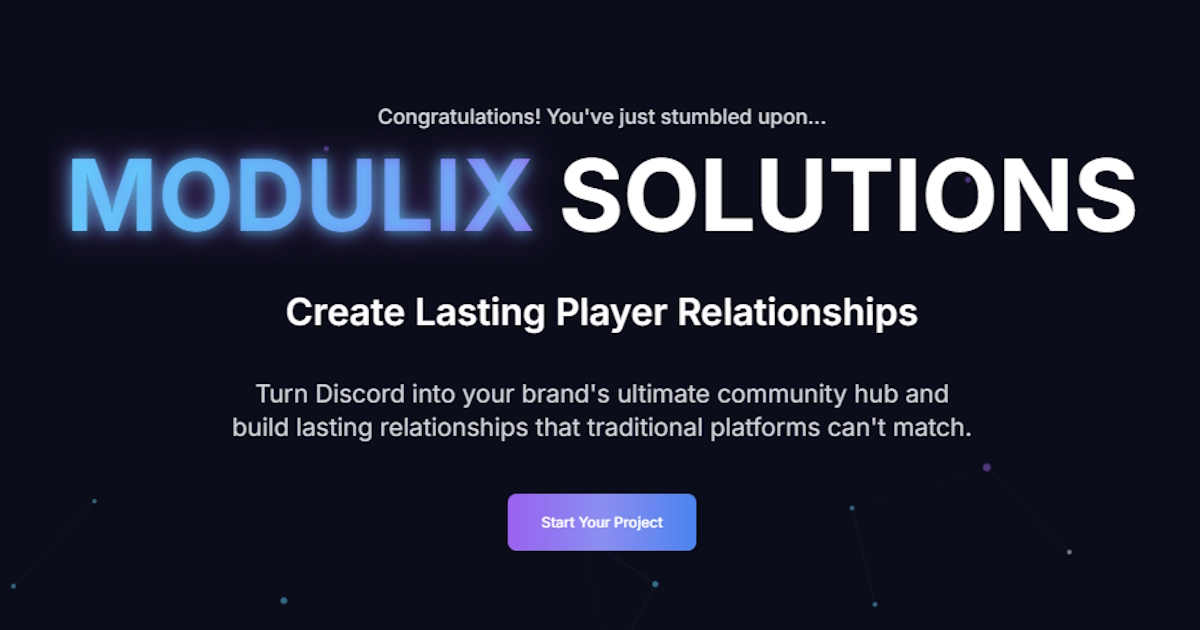
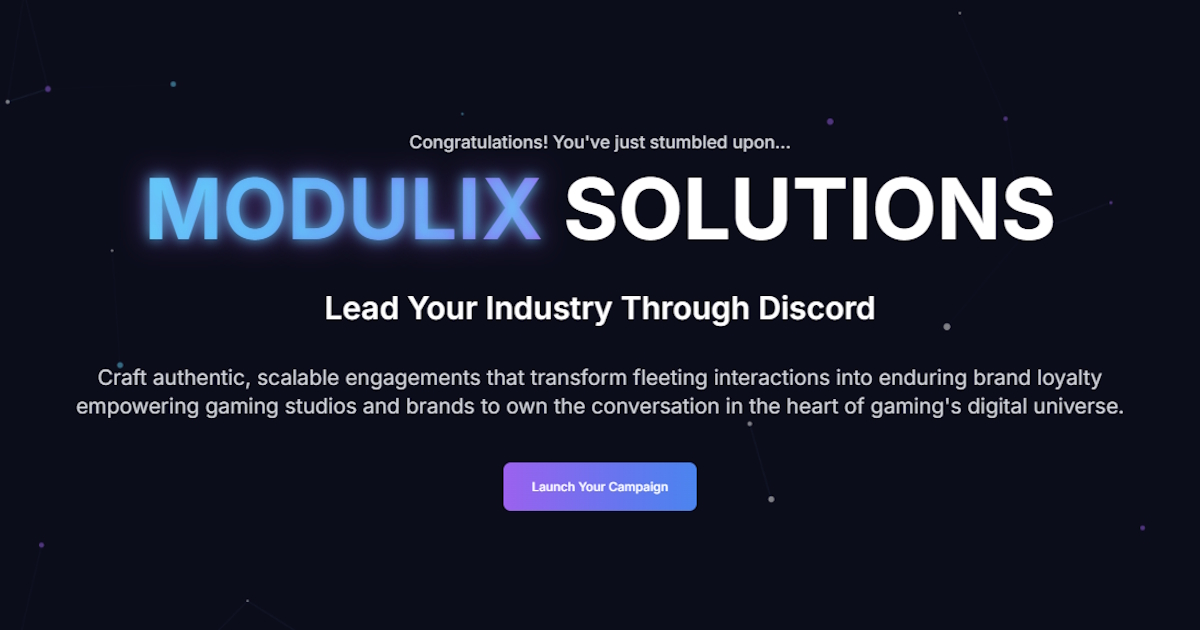
Contact form updates

diff --git a/contact-confirmed/index.html b/contact-confirmed/index.html
@@ -1,0 +1,177 @@
+<!DOCTYPE html>
+<html lang="en">
+<head>
+    <meta charset="UTF-8">
+    <meta name="viewport" content="width=device-width, initial-scale=1.0">
+    <title>Message Sent - Modulix Solutions</title>
+    <meta name="description" content="Thank you for contacting Modulix Solutions. Your message has been sent successfully.">
+    <link rel="preconnect" href="https://fonts.googleapis.com">
+    <link rel="preconnect" href="https://fonts.gstatic.com" crossorigin>
+    <link href="https://fonts.googleapis.com/css2?family=Lato:wght@400;600;700&family=Inter:wght@300;400;500;600;700&display=swap" rel="stylesheet">
+    <style>
+        * {
+            margin: 0;
+            padding: 0;
+            box-sizing: border-box;
+        }
+
+        body {
+            font-family: 'Inter', sans-serif;
+            background: linear-gradient(135deg, #0a0b14 0%, #111124 50%, #1a1a2e 100%);
+            color: #ffffff;
+            min-height: 100vh;
+            display: flex;
+            flex-direction: column;
+            align-items: center;
+            justify-content: center;
+            padding: 2rem;
+        }
+
+        .container {
+            max-width: 600px;
+            text-align: center;
+            background: rgba(0, 212, 255, 0.05);
+            border: 1px solid rgba(0, 212, 255, 0.2);
+            border-radius: 16px;
+            padding: 3rem 2rem;
+            backdrop-filter: blur(10px);
+        }
+
+        .success-icon {
+            width: 80px;
+            height: 80px;
+            background: linear-gradient(135deg, #00d4ff, #a855f7);
+            border-radius: 50%;
+            display: flex;
+            align-items: center;
+            justify-content: center;
+            margin: 0 auto 2rem;
+            box-shadow: 0 0 30px rgba(0, 212, 255, 0.3);
+        }
+
+        .checkmark {
+            width: 40px;
+            height: 40px;
+            stroke: white;
+            stroke-width: 3;
+            fill: none;
+            stroke-linecap: round;
+            stroke-linejoin: round;
+            animation: checkmark 0.8s ease-in-out 0.5s both;
+        }
+
+        @keyframes checkmark {
+            0% {
+                stroke-dasharray: 0 100;
+            }
+            100% {
+                stroke-dasharray: 100 100;
+            }
+        }
+
+        h1 {
+            font-family: 'Lato', sans-serif;
+            font-size: 2.5rem;
+            font-weight: 700;
+            margin-bottom: 1rem;
+            background: linear-gradient(135deg, #00d4ff 0%, #a855f7 100%);
+            -webkit-background-clip: text;
+            -webkit-text-fill-color: transparent;
+            background-clip: text;
+        }
+
+        .subtitle {
+            font-size: 1.2rem;
+            color: #b0b0b0;
+            margin-bottom: 2rem;
+            line-height: 1.6;
+        }
+
+        .message {
+            font-size: 1.1rem;
+            color: #d0d0d0;
+            margin-bottom: 2.5rem;
+            line-height: 1.7;
+        }
+
+        .cta-button {
+            display: inline-flex;
+            align-items: center;
+            gap: 0.5rem;
+            background: linear-gradient(135deg, #00d4ff, #a855f7);
+            color: white;
+            text-decoration: none;
+            padding: 1rem 2rem;
+            border-radius: 8px;
+            font-weight: 600;
+            font-size: 1rem;
+            transition: all 0.3s ease;
+            box-shadow: 0 4px 15px rgba(0, 212, 255, 0.3);
+        }
+
+        .cta-button:hover {
+            transform: translateY(-2px);
+            box-shadow: 0 8px 25px rgba(0, 212, 255, 0.4);
+        }
+
+        .back-link {
+            display: inline-block;
+            margin-top: 2rem;
+            color: #888;
+            text-decoration: none;
+            font-size: 0.9rem;
+            transition: color 0.3s ease;
+        }
+
+        .back-link:hover {
+            color: #00d4ff;
+        }
+
+        @media (max-width: 640px) {
+            .container {
+                padding: 2rem 1.5rem;
+            }
+
+            h1 {
+                font-size: 2rem;
+            }
+
+            .success-icon {
+                width: 60px;
+                height: 60px;
+            }
+
+            .checkmark {
+                width: 30px;
+                height: 30px;
+            }
+        }
+    </style>
+</head>
+<body>
+    <div class="container">
+        <div class="success-icon">
+            <svg class="checkmark" viewBox="0 0 24 24">
+                <path d="M20 6L9 17L4 12"/>
+            </svg>
+        </div>
+
+        <h1>Message Sent Successfully!</h1>
+
+        <p class="subtitle">Thank you for reaching out to Modulix Solutions</p>
+
+        <p class="message">
+            We've received your message and will get back to you within 24 hours. Our team is excited to discuss how we can help transform your Discord community and drive meaningful engagement for your brand.
+        </p>
+
+        <a href="/" class="cta-button">
+            <svg width="20" height="20" viewBox="0 0 24 24" fill="none" stroke="currentColor" stroke-width="2" stroke-linecap="round" stroke-linejoin="round">
+                <path d="M3 12l2-2m0 0l7-7 7 7M5 10v10a1 1 0 001 1h3m10-11l2 2m-2-2v10a1 1 0 01-1 1h-3m-6 0a1 1 0 001-1v-4a1 1 0 011-1h2a1 1 0 011 1v4a1 1 0 001 1m-6 0h6"/>
+            </svg>
+            Return to Homepage
+        </a>
+
+        <a href="/" class="back-link">← Back to Modulix Solutions</a>
+    </div>
+</body>
+</html>

diff --git a/components/ContactForm.tsx b/components/ContactForm.tsx
@@ -81,25 +81,46 @@ export default function ContactForm() {
         // Remove manual headers - let browser set them automatically for FormData
       });
 
-      const data = await response.json();
+      // Check if response is ok before trying to parse
+      if (response.ok) {
+        try {
+          const data = await response.json();
+          console.log('Web3Forms Response:', data);
 
-      if (data.success) {
-        setResult('Message sent successfully! Redirecting...');
-        event.currentTarget.reset();
-        // Clear validation states on success
-        setFieldValidity({ name: false, email: false, discord: false, message: false });
+          if (data.success) {
+            setResult('Message sent successfully! Redirecting...');
+            event.currentTarget.reset();
+            // Clear validation states on success
+            setFieldValidity({ name: false, email: false, discord: false, message: false });
 
-        // Redirect after showing success message briefly
-        setTimeout(() => {
-          window.location.href = 'https://modulixsolutions.com/contact-confirmed';
-        }, 1500);
+            // Redirect after showing success message briefly
+            setTimeout(() => {
+              window.location.href = 'https://modulixsolutions.com/contact-confirmed';
+            }, 1500);
+          } else {
+            console.log('Web3Forms Error:', data);
+            setResult(data.message || 'Failed to send message. Please try again.');
+          }
+        } catch (parseError) {
+          // If JSON parsing fails but response is ok, assume success
+          console.log('Parse error but response OK, assuming success:', parseError);
+          setResult('Message sent successfully! Redirecting...');
+          event.currentTarget.reset();
+          setFieldValidity({ name: false, email: false, discord: false, message: false });
+
+          setTimeout(() => {
+            window.location.href = 'https://modulixsolutions.com/contact-confirmed';
+          }, 1500);
+        }
       } else {
-        console.log('Web3Forms Error:', data);
-        setResult(data.message || 'Failed to send message. Please try again.');
+        // Response not ok
+        console.log('HTTP Error:', response.status, response.statusText);
+        setResult(`Failed to send message (${response.status}). Please try again.`);
       }
     } catch (error) {
       console.log('Network Error:', error);
-      setResult('Network error. Please check your connection and try again.');
+      // Even on network error, if the form might have been submitted, show a different message
+      setResult('Message may have been sent. Please check your email or try again.');
     } finally {
       setIsSubmitting(false);
       setTimeout(() => {

diff --git a/pages/index.tsx b/pages/index.tsx
@@ -273,9 +273,9 @@ export default function Home() {
   return (
     <>
       <Head>
-        <title>Modulix Solutions - Discord Community Management & Gaming Brand Advertising</title>
+        <title>Modulix Solutions - Discord Community Management</title>
         <meta name="description" content="Transform Discord into revenue-generating communities with authentic gaming brand advertising, UEFN integrations, and community management for studios and brands." />
-        <meta name="keywords" content="Discord community management, gaming server advertising, UEFN marketing, Discord bot advertising, gaming community engagement, Discord marketing campaigns, gaming brand promotion, community building, Discord server management, Fortnite advertising, Discord ad network, gaming community growth, Discord advertising agency" />
+        <meta name="keywords" content="Discord community management, gaming server advertising, UEFN marketing, Discord bot advertising, gaming community engagement, Discord marketing campaigns, gaming brand promotion, community building, Discord server management, Fortnite advertising, Discord ad network, gaming community growth, Discord advertising agency, Modulix Solutions, Chartis Games, WildFire Discord, Readyup" />
         <meta name="author" content="Modulix Solutions" />
         <meta name="robots" content="index, follow" />
         <meta name="language" content="English" />
@@ -409,7 +409,7 @@ export default function Home() {
                     transition={{ duration: 0.8, delay: 0.4 }}
                     className="text-xl md:text-2xl text-gray-300 mb-12 leading-relaxed"
                   >
-                    Craft authentic, scalable engagements that transform fleeting interactions into enduring brand loyalty—empowering gaming studios and brands to own the conversation in the heart of gaming's digital universe.
+                    Craft authentic, scalable engagements that transform fleeting interactions into enduring brand loyalty empowering gaming studios and brands to own the conversation in the heart of gaming's digital universe.
                   </motion.p>
 
                   <motion.div
